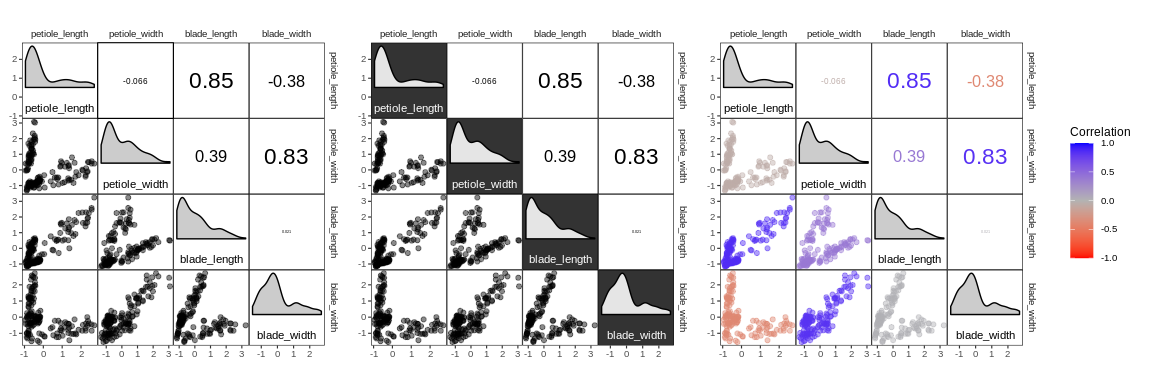
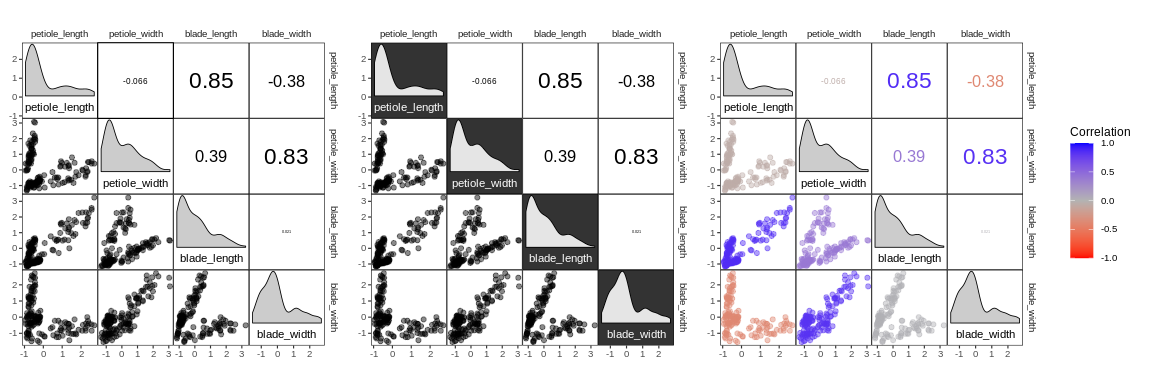
Recreate README w/ updated pkg version + minor changes

diff --git a/README.md b/README.md
@@ -55,14 +55,13 @@ library(corrmorant)
 
     ## Loading required package: ggplot2
 
-    ## Loading required package: rlang
-
 ## Simple plots with corrmorant()
 
 The `corrmorant()` function is a simple wrapper function around the more
 complex `gcorrm()` function that can be used to create first, simple
-plots of correlation matrices. Currently, three different styles are
-available, “light”, “dark” and “blue\_red”:
+plots of correlation matrices for initial data inspection. Currently,
+three different styles are available, “light”, “dark” and the default,
+“blue\_red”:
 
 ``` r
 # correlation plot of the drosera data using style = 'light'
@@ -74,7 +73,11 @@ corrmorant(drosera, style = "dark")
 corrmorant(drosera, style = "blue_red")
 ```
 
-![](README_files/figure-gfm/unnamed-chunk-4-1.png)<!-- -->
+![](README_files/figure-gfm/unnamed-chunk-4-1.png)<!-- --> It obvious
+that this illustration is not optimal because the three different
+*Drosera* species have remarkably different leaf morphologies. More
+complex plots (e.g. with different correlations for different groups)
+are possible with `ggcorrm()`.
 
 ## Basic usage of ggcorrm()
 
@@ -99,8 +102,8 @@ the following code:
 p1 <- ggcorrm(drosera) +
   lotri(geom_point(alpha = 0.5)) +
   utri_corrtext() +
-  dia_names(y_pos = 0.1, size = 3) +
-  dia_density(lower = 0.4, fill = "grey80", color = 1)
+  dia_names(y_pos = 0.15, size = 3) +
+  dia_density(lower = 0.3, fill = "grey80", color = 1)
 p1
 ```
 
@@ -131,8 +134,8 @@ ggcorrm(drosera, mapping = aes(col = species, fill = species)) +
   lotri(geom_smooth(method = "lm")) +
   lotri(geom_point(alpha = 0.5)) +
   utri_corrtext(nrow = 2, squeeze = 0.6) +
-  dia_names(y_pos = 0.1, size = 3) +
-  dia_density(lower = 0.4, color = 1)
+  dia_names(y_pos = 0.15, size = 3) +
+  dia_density(lower = 0.3, color = 1)
 ```
 
 ![](README_files/figure-gfm/unnamed-chunk-7-1.png)<!-- -->
@@ -156,8 +159,8 @@ ggcorrm(data1,
   lotri(geom_smooth(method = "lm", size = .3)) +
   lotri(geom_point(alpha = 0.5)) +
   utri_corrtext(nrow = 2, squeeze = 0.6) +
-  dia_names(y_pos = 0.1, size = 3, color = "white") +
-  dia_histogram(lower = 0.4, color = "grey80", fill = "grey60", size = .3) +
+  dia_names(y_pos = 0.15, size = 3, color = "white") +
+  dia_histogram(lower = 0.3, color = "grey80", fill = "grey60", size = .3) +
   scale_color_corr(aesthetics = c("fill", "color"))
 ```
 
@@ -173,8 +176,8 @@ ggcorrm(data1,
 improve the display of correlation strength.
 
 For example, there is a set of stats for correlation heatmaps and the
-likes, which can be very useful when inspecting datasets with large
-numbers of variables:
+likes, which can be useful when inspecting datasets with large numbers
+of variables:
 
 ``` r
 select(mtcars, mpg, disp:qsec) %>% 
@@ -182,8 +185,8 @@ ggcorrm() +
   utri_heatmap(alpha = 0.5) +
   lotri_heatcircle(alpha = 0.5, col = 1) +
   utri_corrtext() +
-  dia_names(y_pos = 0.1, size = 3) +
-  dia_density(lower = 0.4, fill = "lightgrey", color = 1) +
+  dia_names(y_pos = 0.15, size = 3) +
+  dia_density(lower = 0.3, fill = "lightgrey", color = 1) +
   scale_fill_corr() 
 ```
 
@@ -199,8 +202,8 @@ airquality %>%
 ggcorrm(aes(col = .corr)) +
   lotri_heatpoint(pch = "\U1F63E") +
   utri_heatpoint(pch = "\U2620", col = "#660066") +
-  dia_names(y_pos = 0.1, size = 3) +
-  dia_density(lower = 0.4, fill = "#89DFA3", color = 1) +
+  dia_names(y_pos = 0.15, size = 3) +
+  dia_density(lower = 0.3, fill = "#89DFA3", color = 1) +
   scale_size(range = c(1, 15)) + 
   scale_color_corr(option = "C")
 ```
@@ -228,9 +231,9 @@ lmslope <- function(x, y)  round(coef(lm(x ~ y))[2], 2)
 ggcorrm(drosera, mapping = aes(col = species, fill = species)) +
   lotri(geom_point(alpha = 0.4)) +
   lotri(geom_smooth(alpha = 0.4, method = "lm")) +
-  utri_funtext(fun = lmslope, squeeze = .6) +
-  dia_density(lower = .4, col = 1, alpha = 0.4) +
-  dia_names(y_pos = .1)
+  utri_funtext(fun = lmslope, squeeze = 0.6) +
+  dia_density(lower = 0.3, col = 1, alpha = 0.4) +
+  dia_names(y_pos = 0.15)
 ```
 
 ![](README_files/figure-gfm/unnamed-chunk-11-1.png)<!-- -->
@@ -248,7 +251,7 @@ a quosure in the lower triangle:
 ggcorrm(drosera, aes(col = .corr), rescale = "as_is") +
   utri_funtext(fun = ~ round(cor(.x, .y), 2)) +
   lotri_funtext(fun = quo(round(cor(x, y), 2))) +
-  dia_names(y_pos = .5) +
+  dia_names(y_pos = 0.5) +
   scale_color_corr()
 ```
 
